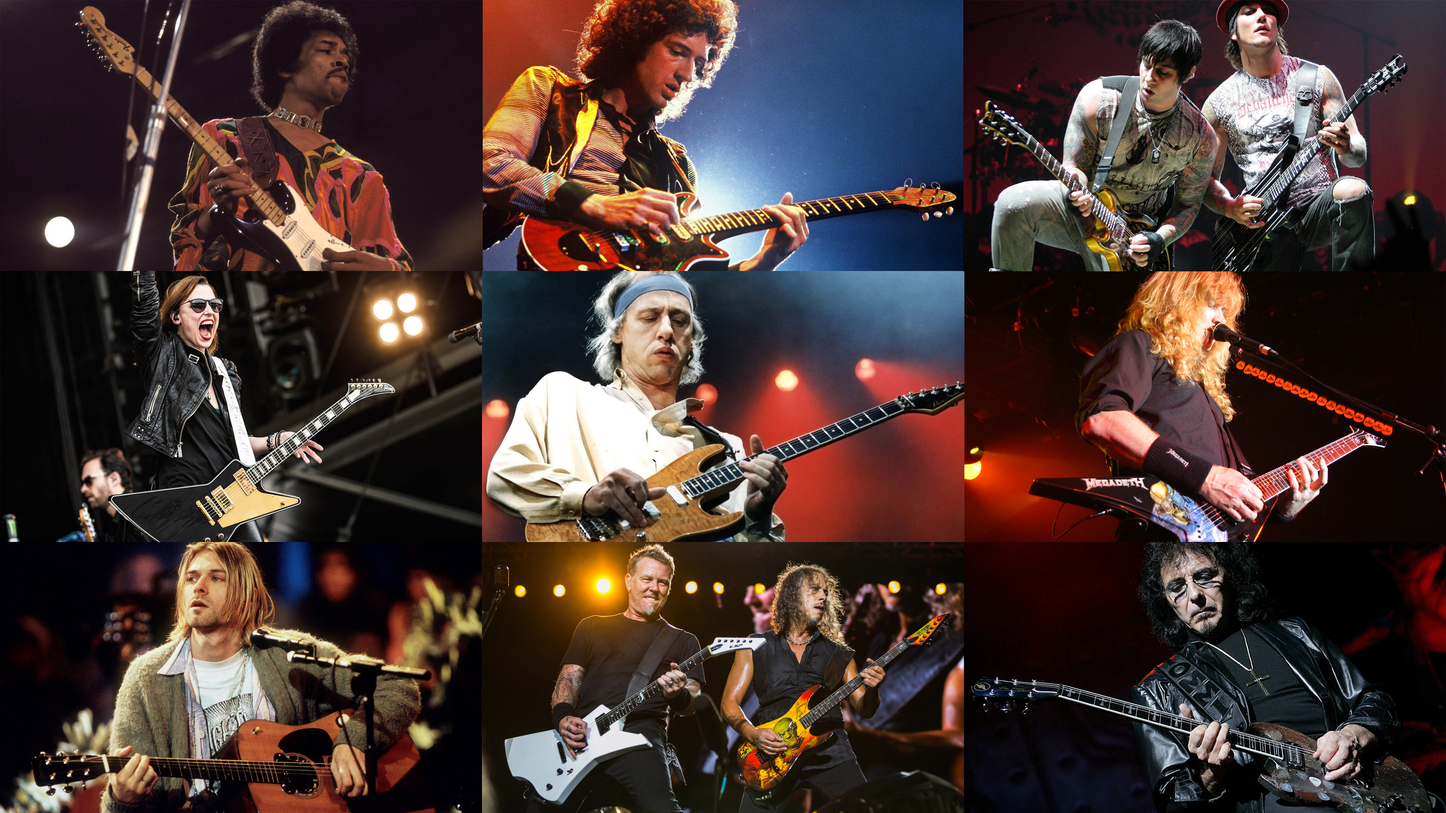
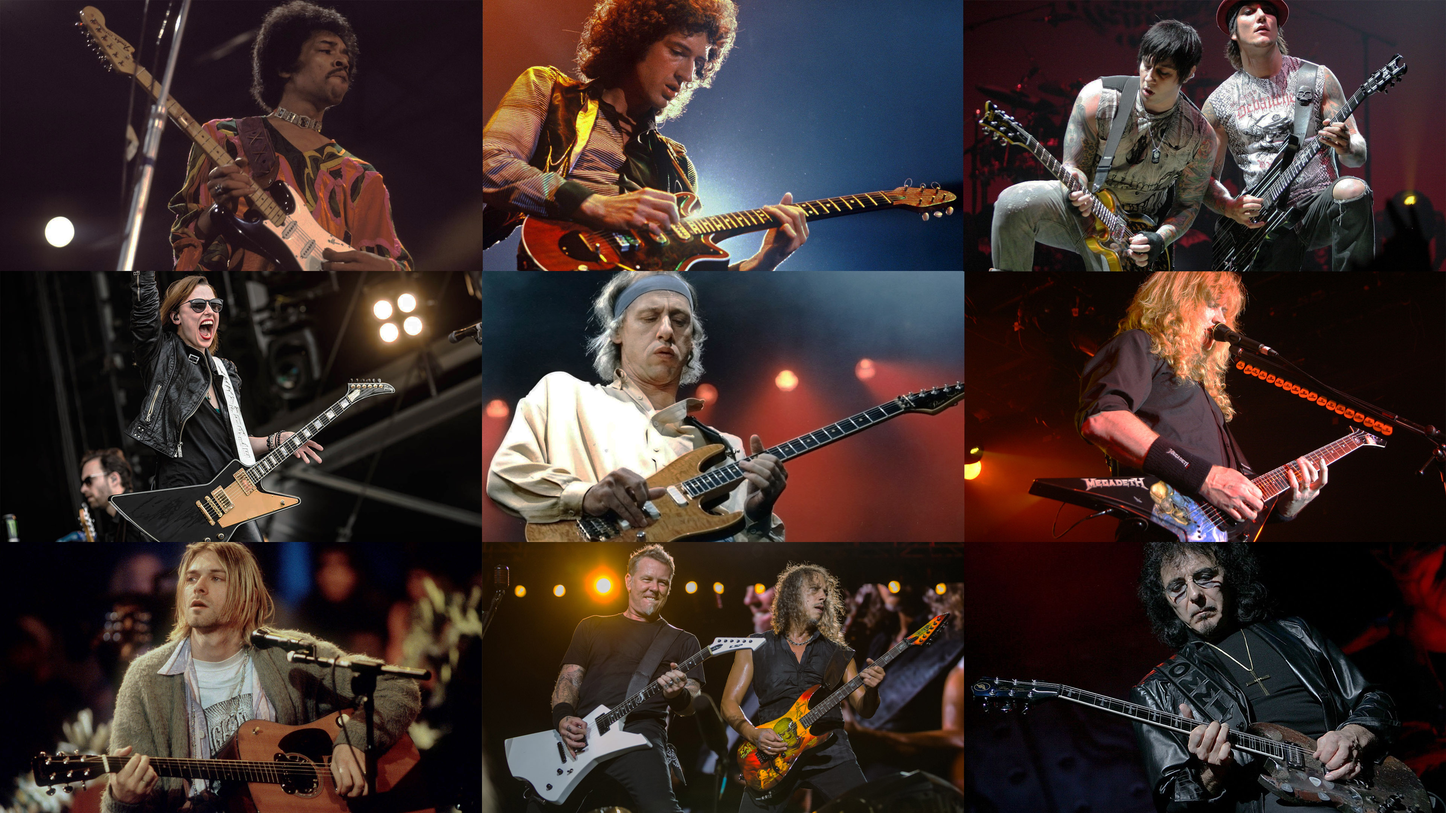
Add Rockers Hero Section

diff --git a/src/styles/Hero.css b/src/styles/Hero.css
@@ -1,0 +1,91 @@
+.hero {
+  background-size: cover;
+  background-position: center;
+  background-attachment: fixed;
+  min-height: 100vh;
+  display: flex;
+  align-items: center;
+  justify-content: center;
+}
+
+.hero-content {
+  width: 100%;
+  display: flex;
+  align-items: center;
+  justify-content: space-evenly;
+}
+
+.hero-title {
+  font-family: "Endor", sans-serif;
+  font-size: 5rem;
+  text-shadow:
+    -3px -3px 0 #000,
+    3px -3px 0 #000,
+    -3px 3px 0 #000,
+    3px 3px 0 #000;
+}
+
+.hero-text {
+  display: flex;
+  flex-direction: column;
+  gap: 24px;
+  align-items: center;
+  background-color: var(--primary-color-translucent);
+  padding: 24px;
+  border-radius: 6px;
+  /* border: 1px solid var(--secondary-color); */
+  box-shadow: 0px 0px 8px rgba(0, 0, 0, 1);
+  width: 90%;
+  max-width: 800px;
+  font-size: 2rem;
+  text-align: justify;
+  isolation: isolate;
+}
+
+.hero-btn {
+  position: relative;
+  width: fit-content;
+  padding: 16px 24px;
+  border: 1px solid var(--secondary-color);
+  border-radius: 40px;
+  transition: all 0.2s ease-in-out;
+}
+
+.hero-btn:hover {
+  background-color: var(--primary-color);
+  border: 1px solid transparent;
+}
+
+.hero-btn::after {
+  content: "";
+  position: absolute;
+  height: 100%;
+  width: 100%;
+  background-image: conic-gradient(from var(--angle), var(--accent-gradient));
+  z-index: -1;
+  inset: -2.5px;
+  padding: 2.5px;
+  border-radius: 40px;
+  opacity: 0;
+  animation: spin 2s linear infinite;
+}
+
+.hero-btn:hover::after {
+  opacity: 1;
+  transition: opacity 0.3s ease-in-out;
+}
+
+@property --angle {
+  syntax: "<angle>";
+  initial-value: 0deg;
+  inherits: false;
+}
+
+@keyframes spin {
+  from {
+    --angle: 0deg;
+  }
+  to {
+    --angle: 360deg;
+  }
+}

diff --git a/src/components/Welcome.jsx b/src/components/Welcome.jsx
@@ -1,5 +1,5 @@
 import rockersImg from "../assets/rockers/rockers-card-1.webp";
-import theoryImg from "../assets/theory/theory-card-1.jpg"
+import theoryImg from "../assets/theory/theory-card-1.jpg";
 import gearImg from "../assets/guitar-gear.jpg";
 import Card from "./Card";
 import "../styles/Welcome.css";
@@ -14,14 +14,20 @@ function Welcome() {
       <div id="welcome-text">
         <p>
           Here, you can learn cool facts about your favorite rock & metal
-          guitarists, learn music theory, browse gear, and much more. Ready to dive in to the
-          music?
+          guitarists, learn music theory, browse gear, and much more. Ready to
+          dive in to the music?
         </p>
       </div>
       <div id="features">
-        <Card id="rockers-card" img={rockersImg} title="Famous Rockers" />
-        <Card id="theory-card" img={theoryImg} title="Learn Theory" />
-        <Card id="gear-card" img={gearImg} title="Guitar Gear" />
+        <a href="#rockers-hero">
+          <Card id="rockers-card" img={rockersImg} title="Famous Rockers" />
+        </a>
+        <a href="#">
+          <Card id="theory-card" img={theoryImg} title="Learn Theory" />
+        </a>
+        <a href="#">
+          <Card id="gear-card" img={gearImg} title="Guitar Gear" />
+        </a>
       </div>
     </section>
   );

diff --git a/src/index.css b/src/index.css
@@ -1,7 +1,9 @@
 :root {
   --primary-color: #121212;
+  --primary-color-translucent: rgba(18, 18, 18, 0.85);
   --primary-color-offset: #1a1a1a;
   --secondary-color: #f3f3f5;
+  --secondary-color-translucent: rgba(243, 243, 245, 0.7);
   --secondary-color-offset: #d5d5d5;
   --accent-color-dark: #990000;
   --accent-color-light: #dc2626;
@@ -15,9 +17,13 @@
     #f3f3f5 70%,
     #000 100%
   );
-  --accent-gradient:
+  /* --accent-gradient:
     var(--accent-color-dark) 0%, transparent 30%, transparent 70%,
-    var(--accent-color-dark) 100%;
+    var(--accent-color-dark) 100%; */
+  --accent-gradient:
+    var(--accent-color-dark) 0deg, transparent 90deg,
+    var(--accent-color-dark) 180deg, transparent 270deg,
+    var(--accent-color-dark) 360deg;
 }
 
 * {
@@ -26,10 +32,22 @@
   padding: 0;
 }
 
+html {
+  scroll-behavior: smooth;
+}
+
 body {
   font-family: "CinzelDecorative", sans-serif;
   background-color: var(--primary-color);
   color: var(--primary-text-color);
+}
+
+a,
+a:visited,
+a:hover,
+a:active {
+  color: inherit;
+  text-decoration: none;
 }
 
 @font-face {

diff --git a/src/App.jsx b/src/App.jsx
@@ -3,6 +3,7 @@ import "./App.css";
 import Header from "./components/Header";
 import Landing from "./components/Landing";
 import Welcome from "./components/Welcome";
+import Hero from "./components/Hero";
 import Footer from "./components/Footer";
 
 function App() {
@@ -11,6 +12,12 @@ function App() {
       <Header />
       <Landing />
       <Welcome />
+      <Hero id={"rockers-hero"} title={<>FAMOUS<br />ROCKERS</>}>
+        <p>
+          Get to know more about your favorite guitarists & musicians, check out
+          what gear they use, and listen to some of their most popular work.
+        </p>
+      </Hero>
       <Footer />
     </>
   );

diff --git a/src/components/Landing.jsx b/src/components/Landing.jsx
@@ -1,12 +1,15 @@
 import heroLogo from "../assets/hero/hero-logo-2.png";
-import "../styles/Landing.css"
+import "../styles/Hero.css";
+import "../styles/Landing.css";
 
 function Landing() {
   return (
-    <section id="hero">
-      <img src={heroLogo} alt="Guitar Mania Logo" />
+    <section id="landing" className="hero">
+      <div className="hero-content">
+        <img id="landing-logo" src={heroLogo} alt="Guitar Mania Logo" />
+      </div>
     </section>
-  )
+  );
 }
 
 export default Landing;

diff --git a/src/components/Hero.jsx b/src/components/Hero.jsx
@@ -1,0 +1,17 @@
+import "../styles/Hero.css";
+import "../styles/Rockers-Hero.css";
+
+function Hero({ id, title, children }) {
+  return (
+    <section id={id} className="hero">
+      <div className="hero-content">
+        <h1 className="hero-title">{title}</h1>
+        <div className="hero-text">
+          {children} <p className="hero-btn">Check it Out</p>
+        </div>
+      </div>
+    </section>
+  );
+}
+
+export default Hero;

diff --git a/src/styles/Landing.css b/src/styles/Landing.css
@@ -1,14 +1,10 @@
-#hero {
+#landing {
   background-image: url("../assets/hero/hero-background.jpg");
-  background-size: cover;
-  background-position: center;
-  background-attachment: fixed;
-  min-height: 650px;
-  display: flex;
-  align-items: center;
-  justify-content: center;
+  min-height: auto;
+  height: 100vh;
+  max-height: 650px;
 }
 
-#hero img {
-  width: 50%;
+#landing-logo {
+  width: 60%;
 }

diff --git a/src/styles/Card.css b/src/styles/Card.css
@@ -48,7 +48,7 @@
   position: absolute;
   height: 100%;
   width: 100%;
-  background-image: linear-gradient(var(--angle), var(--accent-gradient));
+  background-image: conic-gradient(from var(--angle), var(--accent-gradient));
   z-index: -1;
   inset: -1.5px;
   padding: 1.5px;

diff --git a/src/styles/Rockers-Hero.css b/src/styles/Rockers-Hero.css
@@ -1,0 +1,4 @@
+#rockers-hero {
+  background-image: url("../assets/rockers/rockers-hero-bw-1.jpg");
+  background-position: top;
+}
